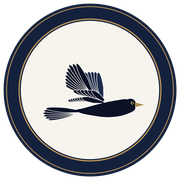
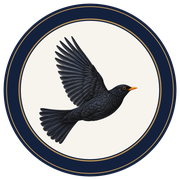
Icône avec merle en vol (illustration)

Changed region(s): [[0.1944, 0.1944, 0.8056, 0.8056]]

diff --git a/index.html b/index.html
@@ -11,9 +11,8 @@
   <link rel="preconnect" href="https://fonts.googleapis.com">
   <link rel="preconnect" href="https://fonts.gstatic.com" crossorigin>
   <link href="https://fonts.googleapis.com/css2?family=Cormorant+Garamond:wght@500;600;700&family=Inter:wght@400;500;600&display=swap" rel="stylesheet">
-  <link rel="icon" type="image/svg+xml" href="images/logo-monogramme.svg?v=1792403270">
-  <link rel="icon" type="image/png" sizes="64x64" href="images/favicon-64.png?v=1792403270">
-  <link rel="apple-touch-icon" href="images/apple-touch-icon.png?v=1792403270">
+  <link rel="icon" type="image/png" sizes="64x64" href="images/favicon-64.png?v=1792403590">
+  <link rel="apple-touch-icon" href="images/apple-touch-icon.png?v=1792403590">
   <link rel="stylesheet" href="style.css?v=1792403098">
   <script type="application/ld+json">
   {
@@ -36,7 +35,7 @@
 <body>
   <header class="site-header">
     <div class="wrap bar">
-      <a href="#accueil" class="brand"><img class="brand-logo" src="images/logo-monogramme.svg?v=1792403270" alt="" width="44" height="44"><div>Loïck Merle <span>Avocat à la Cour</span></div></a>
+      <a href="#accueil" class="brand"><img class="brand-logo" src="images/logo-icone.png?v=1792403595" alt="" width="44" height="44"><div>Loïck Merle <span>Avocat à la Cour</span></div></a>
       <button class="burger" aria-label="Ouvrir le menu" aria-expanded="false" aria-controls="nav">☰</button>
       <nav id="nav" aria-label="Navigation principale">
         <a href="#apropos">Présentation</a>

diff --git a/mentions-legales.html b/mentions-legales.html
@@ -8,15 +8,14 @@
   <link rel="preconnect" href="https://fonts.googleapis.com">
   <link rel="preconnect" href="https://fonts.gstatic.com" crossorigin>
   <link href="https://fonts.googleapis.com/css2?family=Cormorant+Garamond:wght@500;600;700&family=Inter:wght@400;500;600&display=swap" rel="stylesheet">
-  <link rel="icon" type="image/svg+xml" href="images/logo-monogramme.svg?v=1792403270">
-  <link rel="icon" type="image/png" sizes="64x64" href="images/favicon-64.png?v=1792403270">
-  <link rel="apple-touch-icon" href="images/apple-touch-icon.png?v=1792403270">
+  <link rel="icon" type="image/png" sizes="64x64" href="images/favicon-64.png?v=1792403590">
+  <link rel="apple-touch-icon" href="images/apple-touch-icon.png?v=1792403590">
   <link rel="stylesheet" href="style.css?v=1792403098">
 </head>
 <body>
   <header class="site-header">
     <div class="wrap bar">
-      <a href="index.html" class="brand"><img class="brand-logo" src="images/logo-monogramme.svg?v=1792403270" alt="" width="44" height="44"><div>Loïck Merle <span>Avocat à la Cour</span></div></a>
+      <a href="index.html" class="brand"><img class="brand-logo" src="images/logo-icone.png?v=1792403595" alt="" width="44" height="44"><div>Loïck Merle <span>Avocat à la Cour</span></div></a>
       <nav><a href="index.html">← Retour au site</a></nav>
     </div>
   </header>
